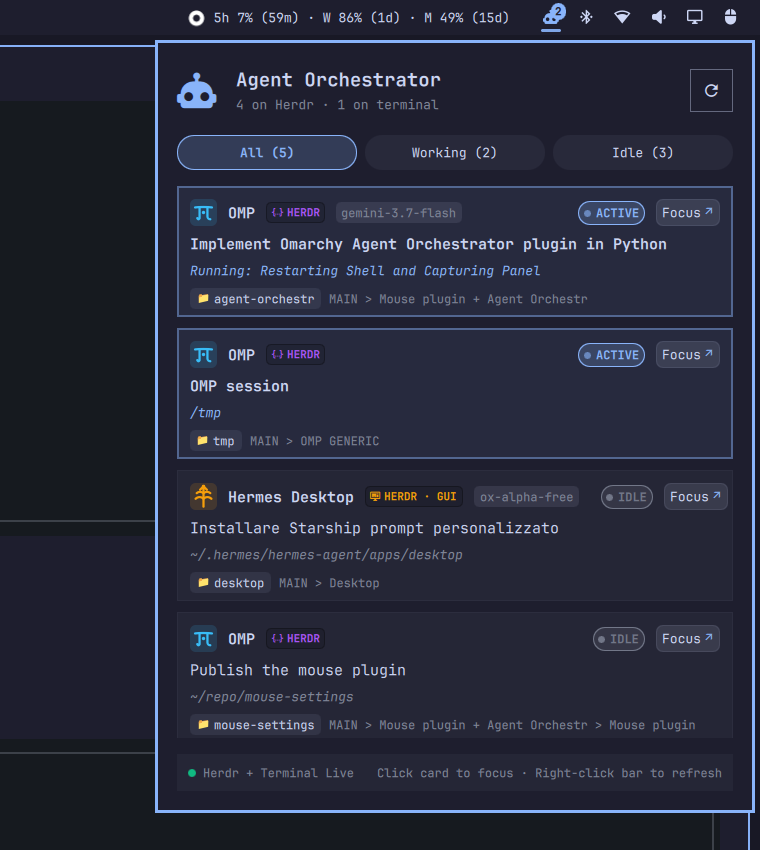
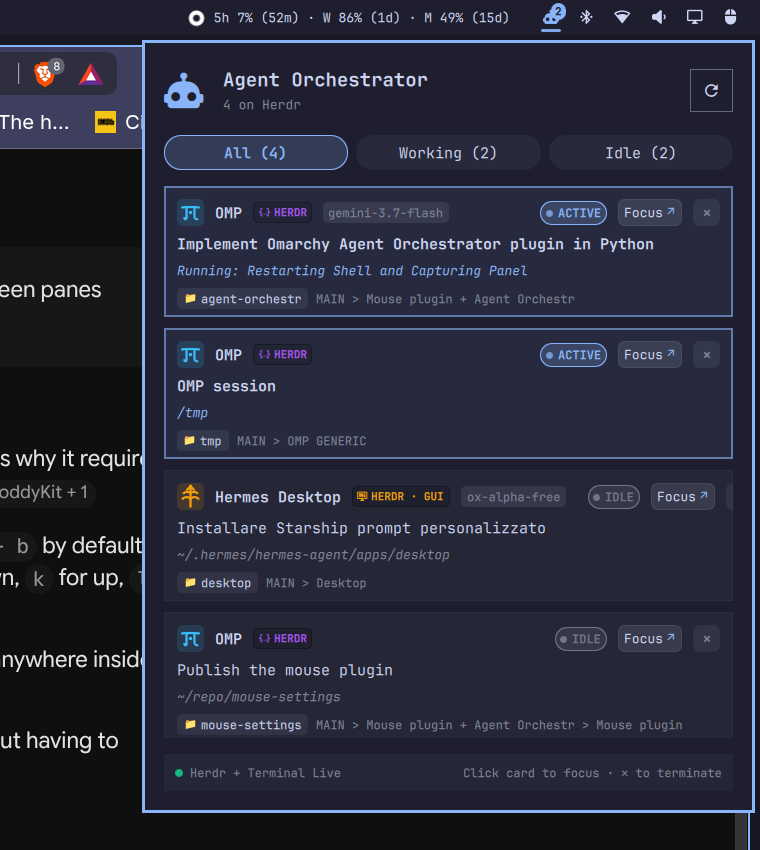
feat: add process termination control (✕ button) and strict terminal ancestor validation

diff --git a/Panel.qml b/Panel.qml
@@ -80,6 +80,12 @@ Panel {
     root.close()
   }
 
+  function killTarget(paneId) {
+    if (!paneId) return
+    killProc.command = ["python3", root.scriptPath(), "kill", paneId]
+    killProc.running = true
+  }
+
   function launchAgent(agentName) {
     launchProc.command = ["python3", root.scriptPath(), "launch", agentName || ""]
     launchProc.running = true
@@ -132,6 +138,14 @@ Panel {
   }
 
   Process {
+    id: killProc
+    stdout: StdioCollector {
+      waitForEnd: true
+      onStreamFinished: root.fetchStatus()
+    }
+  }
+
+  Process {
     id: launchProc
   }
 
@@ -143,6 +157,7 @@ Panel {
     function toggle(): void { root.toggle() }
     function refresh(): void { root.fetchStatus() }
     function focus(paneId: string): void { root.focusPane(paneId) }
+    function kill(paneId: string): void { root.killTarget(paneId) }
   }
 
   // ------------------------------------------------------------- Bar Button (Icon Mode)
@@ -271,7 +286,7 @@ Panel {
     bar: root.bar
     owner: root
     open: root.opened
-    contentWidth: Style.space(450)
+    contentWidth: Style.space(460)
     contentHeight: Style.space(580)
 
     ColumnLayout {
@@ -369,7 +384,7 @@ Panel {
               anchors.centerIn: parent
               text: modelData.label
               font.family: root.fontFamily
-              font.pixelSize: Style.space(10)
+              font.pixelSize: Style.space(11)
               font.weight: root.selectedFilter === modelData.id ? Font.DemiBold : Font.Normal
               color: root.selectedFilter === modelData.id ? root.accent : root.foreground
             }
@@ -425,7 +440,7 @@ Panel {
               anchors.margins: Style.space(10)
               spacing: Style.space(6)
 
-              // Card Header: Brand Icon + Name + Origin Pill + Model + Status Badge + Focus Button
+              // Card Header: Brand Icon + Name + Origin Pill + Model + Status Badge + Actions
               RowLayout {
                 Layout.fillWidth: true
                 spacing: Style.space(8)
@@ -566,6 +581,33 @@ Panel {
                     onClicked: root.focusPane(modelData.pane_id)
                   }
                 }
+
+                // Terminate / Close Button
+                Rectangle {
+                  implicitWidth: Style.space(20)
+                  implicitHeight: Style.space(20)
+                  radius: Style.space(5)
+                  color: killMouse.containsMouse ? root.alpha(root.urgent, 0.35) : root.alpha(root.foreground, 0.08)
+                  border.width: 1
+                  border.color: killMouse.containsMouse ? root.urgent : "transparent"
+
+                  Text {
+                    anchors.centerIn: parent
+                    text: "✕"
+                    font.family: root.fontFamily
+                    font.pixelSize: Style.space(10)
+                    font.bold: true
+                    color: killMouse.containsMouse ? root.urgent : root.dim
+                  }
+
+                  MouseArea {
+                    id: killMouse
+                    anchors.fill: parent
+                    hoverEnabled: true
+                    cursorShape: Qt.PointingHandCursor
+                    onClicked: root.killTarget(modelData.pane_id)
+                  }
+                }
               }
 
               // Task Title
@@ -685,7 +727,7 @@ Panel {
 
           // Keyboard hint
           Text {
-            text: "Click card to focus · Right-click bar to refresh"
+            text: "Click card to focus · ✕ to terminate"
             font.family: root.fontFamily
             font.pixelSize: Style.space(9)
             color: root.dim

diff --git a/agent_ctl.py b/agent_ctl.py
@@ -11,6 +11,7 @@ import glob
 import json
 import os
 import re
+import signal
 import socket
 import sqlite3
 import subprocess
@@ -21,6 +22,8 @@ from typing import Any, Dict, List, Optional, Set, Tuple
 HERDR_SOCK_PATH = os.path.expanduser(os.environ.get("HERDR_SOCKET_PATH", "~/.config/herdr/herdr.sock"))
 OMP_SESSIONS_DIR = os.path.expanduser("~/.omp/agent/sessions")
 HERMES_STATE_DB = os.path.expanduser("~/.hermes/state.db")
+
+KNOWN_TERMINALS = ("foot", "ghostty", "alacritty", "kitty", "wezterm", "gnome-terminal", "xterm")
 
 
 def clean_ansi(text: str) -> str:
@@ -86,18 +89,22 @@ def get_hypr_env() -> Dict[str, str]:
 
 
 def get_process_info(pid: int) -> Optional[Dict[str, Any]]:
-    """Read process cmdline, parent PID, and cwd from /proc."""
+    """Robustly parse /proc/<pid>/stat and cmdline."""
     try:
         proc_dir = f"/proc/{pid}"
         if not os.path.exists(proc_dir):
             return None
-        with open(f"{proc_dir}/cmdline", "rb") as f:
-            cmd = f.read().decode("utf-8", errors="replace").replace("\x00", " ").strip()
-        with open(f"{proc_dir}/stat", "r") as f:
-            stat_parts = f.read().split()
-            ppid = int(stat_parts[3])
-            tty_nr = int(stat_parts[6])
-            state = stat_parts[2]
+        with open(f"{proc_dir}/stat", "r") as sf:
+            content = sf.read()
+            last_paren = content.rfind(")")
+            if last_paren == -1:
+                return None
+            fields = content[last_paren + 1:].split()
+            state = fields[0]
+            ppid = int(fields[1])
+            tty_nr = int(fields[4])
+        with open(f"{proc_dir}/cmdline", "rb") as cf:
+            cmd = cf.read().decode("utf-8", errors="replace").replace("\x00", " ").strip()
         cwd = os.path.realpath(f"{proc_dir}/cwd")
         return {"pid": pid, "ppid": ppid, "tty": tty_nr, "state": state, "cmd": cmd, "cwd": cwd}
     except Exception:
@@ -105,22 +112,22 @@ def get_process_info(pid: int) -> Optional[Dict[str, Any]]:
 
 
 def get_herdr_server_pids() -> List[int]:
-    """Find PID(s) of running Herdr server instances."""
+    """Find PID(s) of running Herdr server and client instances."""
     pids = []
     for p in glob.glob("/proc/[0-9]*"):
         try:
             pid = int(os.path.basename(p))
             info = get_process_info(pid)
-            if info and "herdr server" in info["cmd"]:
+            if info and ("herdr server" in info["cmd"] or info["cmd"] == "herdr" or "herdr --session" in info["cmd"]):
                 pids.append(pid)
         except Exception:
             continue
     return pids
 
 
-def get_process_ancestors(pid: int, max_depth: int = 20) -> List[int]:
-    """Return ordered list of ancestor PIDs up to PID 1."""
-    ancestors = [pid]
+def get_process_ancestors(pid: int, max_depth: int = 20) -> List[Dict[str, Any]]:
+    """Return ordered list of ancestor process info dictionaries up to PID 1."""
+    ancestors = []
     curr = pid
     visited = set()
     depth = 0
@@ -130,7 +137,7 @@ def get_process_ancestors(pid: int, max_depth: int = 20) -> List[int]:
         info = get_process_info(curr)
         if not info or info["ppid"] <= 0:
             break
-        ancestors.append(info["ppid"])
+        ancestors.append(info)
         curr = info["ppid"]
     return ancestors
 
@@ -141,9 +148,9 @@ def resolve_hyprland_window_for_pid(target_pid: int) -> Optional[Dict[str, Any]]
     try:
         out = subprocess.check_output(["hyprctl", "-j", "clients"], env=env, timeout=0.5).decode()
         clients = json.loads(out)
-        ancestors = get_process_ancestors(target_pid)
+        ancestor_pids = [target_pid] + [a["pid"] for a in get_process_ancestors(target_pid)]
         for c in clients:
-            if c.get("pid") in ancestors:
+            if c.get("pid") in ancestor_pids:
                 return c
     except Exception:
         pass
@@ -279,7 +286,17 @@ def scan_standalone_agents(herdr_server_pids: List[int], seen_cwds: Set[str]) ->
             cmd = info["cmd"]
 
             ancestors = get_process_ancestors(pid)
-            is_in_herdr = any(hp in ancestors for hp in herdr_server_pids)
+            ancestor_pids = [a["pid"] for a in ancestors]
+
+            is_in_herdr = any(hp in ancestor_pids for hp in herdr_server_pids)
+            is_broker_child = any(
+                "daemon_broker" in a["cmd"] or "__omp_worker" in a["cmd"] or "runner-" in a["cmd"]
+                for a in ancestors
+            )
+
+            # Skip anything running inside Herdr, spawned as an internal background worker, or system usage script
+            if is_in_herdr or is_broker_child or "omarchy-agent-usage" in cmd or "__omp_worker" in cmd or "gateway run" in cmd or "serve --host" in cmd or "zygote" in cmd or "agent_ctl.py" in cmd:
+                continue
 
             # Check if this is a Hermes Desktop GUI process
             if "/Hermes" in cmd and "--type=" not in cmd and not hermes_desktop_found:
@@ -326,9 +343,19 @@ def scan_standalone_agents(herdr_server_pids: List[int], seen_cwds: Set[str]) ->
             elif first == "python" and ("hermes_cli.main" in cmd or "hermes desktop" in cmd):
                 agent_type = "hermes"
 
-            # Only include if truly outside Herdr
-            if agent_type and not is_in_herdr:
-                if "__omp_worker" in cmd or "gateway run" in cmd or "serve --host" in cmd or "zygote" in cmd or "agent_ctl.py" in cmd:
+            if agent_type:
+                # MUST have an interactive terminal emulator in its ancestor chain to be a standalone terminal session
+                term_name = None
+                for anc in ancestors:
+                    anc_cmd = anc["cmd"].lower()
+                    for t in KNOWN_TERMINALS:
+                        if t in anc_cmd:
+                            term_name = t
+                            break
+                    if term_name:
+                        break
+
+                if not term_name:
                     continue
 
                 cwd = info["cwd"]
@@ -349,18 +376,6 @@ def scan_standalone_agents(herdr_server_pids: List[int], seen_cwds: Set[str]) ->
 
                 effective_title = user_goal or (f"Working in {repo_name}" if repo_name and repo_name not in ("tmp", "~") else f"{agent_type.upper()} standalone session")
                 detail_text = latest_activity or clean_cwd
-
-                term_name = "terminal"
-                for anc_pid in ancestors:
-                    anc_info = get_process_info(anc_pid)
-                    if anc_info:
-                        anc_cmd = anc_info["cmd"].lower()
-                        for t in ("foot", "ghostty", "alacritty", "kitty", "wezterm", "gnome-terminal"):
-                            if t in anc_cmd:
-                                term_name = t
-                                break
-                        if term_name != "terminal":
-                            break
 
                 standalone.append({
                     "pane_id": f"terminal:pid:{pid}",
@@ -595,7 +610,6 @@ def focus_pane(target_id: str) -> Dict[str, Any]:
                 )
                 return {"ok": True, "target": target_id, "mode": "hypr_address", "address": win["address"]}
             else:
-                # Fallback to class / pid
                 subprocess.run(
                     ["hyprctl", "dispatch", "focuswindow", f"pid:{target_pid}"],
                     env=env,
@@ -610,7 +624,6 @@ def focus_pane(target_id: str) -> Dict[str, Any]:
     # 3. Herdr pane
     res = query_herdr_socket("pane.focus", {"pane_id": target_id})
     try:
-        # Focus the terminal emulator window running Herdr (e.g. Ghostty or Foot)
         subprocess.run(
             ["hyprctl", "dispatch", "focuswindow", "class:^(com.mitchellh.ghostty|ghostty|org.omarchy.terminal|foot|alacritty|kitty)$"],
             env=env,
@@ -621,6 +634,62 @@ def focus_pane(target_id: str) -> Dict[str, Any]:
     except Exception:
         pass
 
+    return {"ok": True, "pane_id": target_id, "socket_res": res}
+
+
+def kill_target(target_id: str) -> Dict[str, Any]:
+    """Gracefully terminate an agent process or close a Herdr pane."""
+    if not target_id:
+        return {"ok": False, "error": "No target_id provided"}
+
+    env = get_hypr_env()
+
+    # 1. Standalone terminal process
+    if target_id.startswith("terminal:pid:"):
+        pid_str = target_id.replace("terminal:pid:", "")
+        try:
+            pid = int(pid_str)
+            ancestors = get_process_ancestors(pid)
+            win = resolve_hyprland_window_for_pid(pid)
+            if win and win.get("address"):
+                subprocess.run(
+                    ["hyprctl", "dispatch", "closewindow", f"address:{win['address']}"],
+                    env=env,
+                    stdout=subprocess.DEVNULL,
+                    stderr=subprocess.DEVNULL,
+                    timeout=0.5,
+                )
+            for p in [pid] + [a["pid"] for a in ancestors[:3]]:
+                try:
+                    os.kill(p, signal.SIGTERM)
+                except ProcessLookupError:
+                    pass
+            return {"ok": True, "killed_pid": pid}
+        except Exception as e:
+            return {"ok": False, "error": str(e)}
+
+    # 2. Hermes Desktop window
+    if target_id.startswith("desktop:hermes:"):
+        pid_str = target_id.replace("desktop:hermes:", "")
+        try:
+            pid = int(pid_str)
+            subprocess.run(
+                ["hyprctl", "dispatch", "closewindow", "class:^(Hermes|hermes)$"],
+                env=env,
+                stdout=subprocess.DEVNULL,
+                stderr=subprocess.DEVNULL,
+                timeout=0.5,
+            )
+            try:
+                os.kill(pid, signal.SIGTERM)
+            except ProcessLookupError:
+                pass
+            return {"ok": True, "killed_pid": pid}
+        except Exception as e:
+            return {"ok": False, "error": str(e)}
+
+    # 3. Herdr pane
+    res = query_herdr_socket("pane.close", {"pane_id": target_id})
     return {"ok": True, "pane_id": target_id, "socket_res": res}
 
 
@@ -647,6 +716,15 @@ def main() -> None:
             sys.exit(1)
         target_id = sys.argv[2]
         result = focus_pane(target_id)
+        print(json.dumps(result))
+        return
+
+    if cmd in ("kill", "--kill", "stop", "--stop", "-k"):
+        if len(sys.argv) < 3:
+            print(json.dumps({"ok": False, "error": "Missing pane_id/target_id"}))
+            sys.exit(1)
+        target_id = sys.argv[2]
+        result = kill_target(target_id)
         print(json.dumps(result))
         return
 
